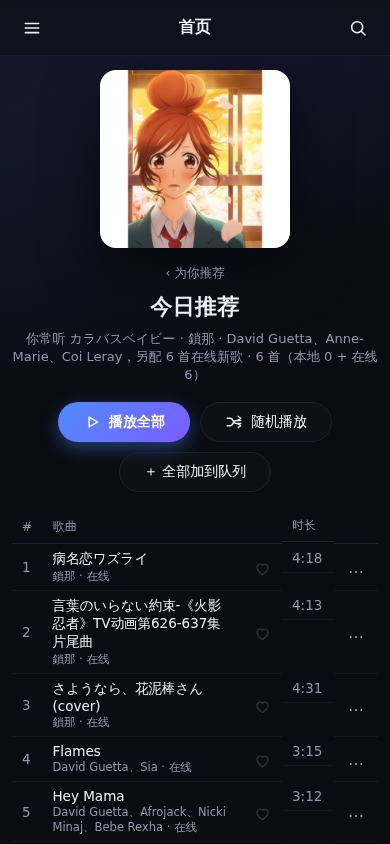
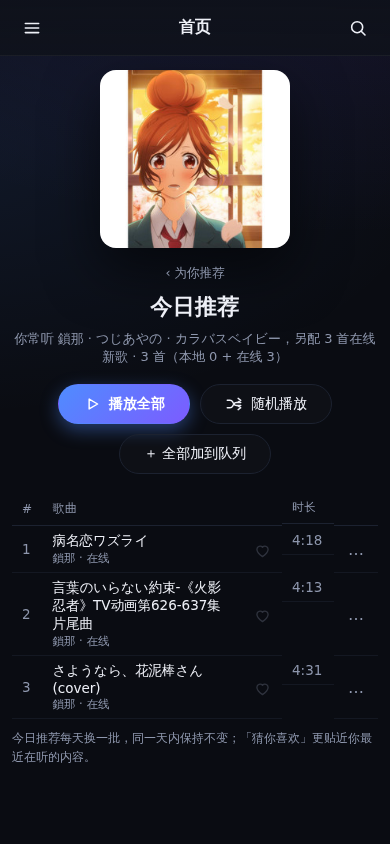
style(share): 分享页图标改内联 SVG（不再靠 emoji 字体）+ 手机端布局断言
- server/src/share/page.ts、ui/share/share.js：播放/暂停/上下曲/随机/下载/音量/更多/音符占位
  全部换成与主 App 同一套 path 的内联 SVG。原先用 ▶⏮⏭🔀🔊 等 emoji 字形，在缺 emoji 字体的
  系统（部分 Linux/NAS 浏览器）会渲染成豆腐块，而分享页正是给「没有账号的访客」看的门面
- ui/share/share.css：SVG 尺寸写死（.s-btn/.s-ic/.s-np-art），占位音符补 19px
  （内联 SVG 不写尺寸会撑满 40px 封面格并被裁角）
- tools/e2e-share.py：新增手机端（390×844）分享页断言——无横向溢出、按钮都在视口内、播放条可见；
  撤销断言改轮询（撤销是请求回来才重渲染，固定等 1500ms 会偶发假失败，审计日志已证请求本身成功）
- 结果：tools/e2e-share.py 89 通过 / 0 失败（接口 + 真实 Chromium），新增 tools/shot-share-mobile.png

diff --git a/server/src/share/page.ts b/server/src/share/page.ts
@@ -8,6 +8,20 @@ export const esc = (s: unknown): string => String(s ?? '')
   .replace(/&/g, '&amp;').replace(/</g, '&lt;').replace(/>/g, '&gt;')
   .replace(/"/g, '&quot;').replace(/'/g, '&#39;')
 
+// 图标统一用内联 SVG（与主 App 同一套 path）：emoji 字形在缺 emoji 字体的系统上会渲染成豆腐块，
+// 分享页是「没有账号的人看到的门面」，不能靠访问者的系统字体赌运气
+const ICON: Record<string, string> = {
+  play: '<svg viewBox="0 0 24 24" fill="currentColor" stroke="none"><path d="M8.2 5.4v13.2L19.5 12Z"/></svg>',
+  pause: '<svg viewBox="0 0 24 24" fill="currentColor" stroke="none"><path d="M7 5h3.8v14H7Z"/><path d="M13.2 5H17v14h-3.8Z"/></svg>',
+  prev: '<svg viewBox="0 0 24 24" fill="currentColor" stroke="none"><path d="M7 5h2.6v14H7Z"/><path d="M19 5v14L9.6 12Z"/></svg>',
+  next: '<svg viewBox="0 0 24 24" fill="currentColor" stroke="none"><path d="M14.4 5H17v14h-2.6Z"/><path d="M5 5v14L14.4 12Z"/></svg>',
+  shuffle: '<svg viewBox="0 0 24 24" fill="none" stroke="currentColor" stroke-width="1.7" stroke-linecap="round" stroke-linejoin="round"><path d="M3 7h3.6c1.5 0 2.9.8 3.6 2.1l1.5 2.7c.7 1.3 2.1 2.1 3.6 2.1H21"/><path d="M17.5 4.5 21 7l-3.5 2.5"/><path d="M3 17h3.6c1.5 0 2.9-.8 3.6-2.1l1.5-2.7c.7-1.3 2.1-2.1 3.6-2.1H21"/><path d="M17.5 14.5 21 17l-3.5 2.5"/></svg>',
+  dl: '<svg viewBox="0 0 24 24" fill="none" stroke="currentColor" stroke-width="1.7" stroke-linecap="round" stroke-linejoin="round"><path d="M12 3.5v10"/><path d="m7.5 10 4.5 4 4.5-4"/><path d="M4.5 16.5v2.8c0 .6.5 1.2 1.2 1.2h12.6c.7 0 1.2-.6 1.2-1.2v-2.8"/></svg>',
+  vol: '<svg viewBox="0 0 24 24" fill="none" stroke="currentColor" stroke-width="1.7" stroke-linecap="round" stroke-linejoin="round"><path d="M4 9.5h3.4L12 5.6v12.8L7.4 14.5H4Z"/><path d="M15.6 9.2a4 4 0 0 1 0 5.6"/><path d="M18.2 6.8a7.6 7.6 0 0 1 0 10.4"/></svg>',
+  more: '<svg viewBox="0 0 24 24" fill="currentColor" stroke="none"><circle cx="5.5" cy="12" r="1.7"/><circle cx="12" cy="12" r="1.7"/><circle cx="18.5" cy="12" r="1.7"/></svg>',
+  note: '<svg viewBox="0 0 24 24" fill="currentColor" stroke="none"><path d="M9 18.5V5.5L21 3.2v13"/><circle cx="6.5" cy="18.5" r="2.8"/><circle cx="18.5" cy="16.2" r="2.8"/></svg>',
+}
+
 const BASE_CSS = `<link rel="stylesheet" href="/s/assets/share.css">`
 
 export interface SharePageInfo {
@@ -69,9 +83,9 @@ ${BASE_CSS}
 
   <main class="s-main">
     <div class="s-toolbar">
-      <button id="s-playall" class="s-btn primary" type="button">▶ 播放全部</button>
-      <button id="s-shuffle" class="s-btn" type="button">🔀 随机播放</button>
-      <button id="s-more" class="s-btn ghost" type="button">⋯</button>
+      <button id="s-playall" class="s-btn primary" type="button">${ICON.play}<span>播放全部</span></button>
+      <button id="s-shuffle" class="s-btn" type="button">${ICON.shuffle}<span>随机播放</span></button>
+      <button id="s-more" class="s-btn ghost" type="button" aria-label="更多">${ICON.more}</button>
     </div>
     <ol id="s-list" class="s-list"><li class="s-loading">正在载入曲目…</li></ol>
   </main>
@@ -90,13 +104,13 @@ ${BASE_CSS}
 
   <div id="s-bar" class="s-bar" hidden>
     <div class="s-np">
-      <div class="s-np-art" id="s-np-art">♪</div>
+      <div class="s-np-art" id="s-np-art">${ICON.note}</div>
       <div class="s-np-txt"><div class="s-np-name" id="s-np-name">未播放</div><div class="s-np-sub" id="s-np-sub"></div></div>
     </div>
     <div class="s-ctrls">
-      <button id="s-prev" class="s-ic" type="button" aria-label="上一首">⏮</button>
-      <button id="s-toggle" class="s-ic big" type="button" aria-label="播放/暂停">▶</button>
-      <button id="s-next" class="s-ic" type="button" aria-label="下一首">⏭</button>
+      <button id="s-prev" class="s-ic" type="button" aria-label="上一首">${ICON.prev}</button>
+      <button id="s-toggle" class="s-ic big" type="button" aria-label="播放/暂停">${ICON.play}</button>
+      <button id="s-next" class="s-ic" type="button" aria-label="下一首">${ICON.next}</button>
     </div>
     <div class="s-prog">
       <span id="s-cur">0:00</span>
@@ -104,7 +118,7 @@ ${BASE_CSS}
       <span id="s-dur">0:00</span>
     </div>
     <div class="s-vol">
-      <button id="s-mute" class="s-ic" type="button" aria-label="音量">🔊</button>
+      <button id="s-mute" class="s-ic" type="button" aria-label="音量">${ICON.vol}</button>
       <input id="s-vol" type="range" min="0" max="100" value="80" aria-label="音量">
     </div>
   </div>

diff --git a/ui/share/share.js b/ui/share/share.js
@@ -5,6 +5,14 @@
   var root = document.getElementById('s-root');
   if (!root) return;
   var CODE = root.dataset.code || '';
+  // 图标：内联 SVG（同 page.ts / 主 App 的 path）。emoji 字形在缺 emoji 字体的系统上是豆腐块，
+  // 分享页面向没有账号的访客，不能赌对方的系统字体
+  var I = {
+    play: '<svg viewBox="0 0 24 24" fill="currentColor" stroke="none"><path d="M8.2 5.4v13.2L19.5 12Z"/></svg>',
+    pause: '<svg viewBox="0 0 24 24" fill="currentColor" stroke="none"><path d="M7 5h3.8v14H7Z"/><path d="M13.2 5H17v14h-3.8Z"/></svg>',
+    dl: '<svg viewBox="0 0 24 24" fill="none" stroke="currentColor" stroke-width="1.7" stroke-linecap="round" stroke-linejoin="round"><path d="M12 3.5v10"/><path d="m7.5 10 4.5 4 4.5-4"/><path d="M4.5 16.5v2.8c0 .6.5 1.2 1.2 1.2h12.6c.7 0 1.2-.6 1.2-1.2v-2.8"/></svg>',
+    note: '<svg viewBox="0 0 24 24" fill="currentColor" stroke="none"><path d="M9 18.5V5.5L21 3.2v13"/><circle cx="6.5" cy="18.5" r="2.8"/><circle cx="18.5" cy="16.2" r="2.8"/></svg>',
+  }
   var API = '/s/' + CODE;
   var state = { items: [], allowDownload: false, order: [], pos: -1, title: '', subtitle: '' };
   var audio = new Audio();
@@ -109,10 +117,10 @@
         img.loading = 'lazy';
         img.alt = '';
         img.src = API + '/cover/' + i;
-        img.addEventListener('error', function () { cov.textContent = '♪'; cov.classList.add('ph'); });
+        img.addEventListener('error', function () { cov.innerHTML = I.note; cov.classList.add('ph'); });
         cov.appendChild(img);
       } else {
-        cov.textContent = '♪';
+        cov.innerHTML = I.note;
         cov.classList.add('ph');
       }
       li.appendChild(cov);
@@ -126,14 +134,15 @@
       li.appendChild(el('span', 's-du', it.interval || ''));
       var acts = el('div', 's-acts');
       if (it.playable) {
-        var bp = el('button', 's-ic sm', '▶');
+        var bp = el('button', 's-ic sm');
+        bp.innerHTML = I.play;
         bp.title = '播放这首';
         bp.addEventListener('click', function () { playAt(i, true); });
         acts.appendChild(bp);
         if (state.allowDownload) {
           var a = document.createElement('a');
           a.className = 's-ic sm';
-          a.textContent = '⬇';
+          a.innerHTML = I.dl;
           a.title = '下载这首';
           a.href = API + '/download/' + i;
           acts.appendChild(a);
@@ -157,7 +166,7 @@
       var ai = document.createElement('img');
       ai.alt = '';
       ai.src = API + '/cover/' + first;
-      ai.addEventListener('error', function () { art.textContent = '♪'; });
+      ai.addEventListener('error', function () { art.innerHTML = I.note; });
       art.innerHTML = '';
       art.appendChild(ai);
     }
@@ -184,7 +193,7 @@
   }
 
   function setPlaying(on) {
-    $('s-toggle').textContent = on ? '⏸' : '▶';
+    $('s-toggle').innerHTML = on ? I.pause : I.play;
   }
 
   function updateNow() {
@@ -198,7 +207,7 @@
     var img = document.createElement('img');
     img.alt = '';
     img.src = API + '/cover/' + state.pos;
-    img.addEventListener('error', function () { art.textContent = '♪'; });
+    img.addEventListener('error', function () { art.innerHTML = I.note; });
     art.appendChild(img);
     if ('mediaSession' in navigator && window.MediaMetadata) {
       try {
@@ -343,11 +352,11 @@
   });
   $('s-shuffle').addEventListener('click', shuffle);
   $('s-more').addEventListener('click', function () {
-    var items = [['💬 显示/隐藏歌词', toggleLyric]];
+    var items = [['显示/隐藏歌词', toggleLyric]];
     if (state.pos >= 0 && state.allowDownload) {
-      items.push(['⬇ 下载当前歌曲', function () { window.location.href = API + '/download/' + state.pos; }]);
+      items.push(['下载当前歌曲', function () { window.location.href = API + '/download/' + state.pos; }]);
     }
-    items.push(['🔗 复制本页链接', function () {
+    items.push(['复制本页链接', function () {
       var url = location.href;
       if (navigator.clipboard) navigator.clipboard.writeText(url).then(function () { toast('链接已复制'); }, function () { toast(url); });
       else toast(url);

diff --git a/ui/share/share.css b/ui/share/share.css
@@ -44,7 +44,14 @@ body {
 .s-btn {
   background: var(--bg2); color: var(--fg); border: 1px solid var(--line);
   border-radius: 10px; padding: 9px 16px; font-size: 14px; cursor: pointer;
+  display: inline-flex; align-items: center; gap: 7px; line-height: 1;
 }
+/* 图标统一 SVG，尺寸写死避免依赖字体度量 */
+.s-btn svg { width: 16px; height: 16px; flex: none; }
+.s-ic svg { width: 17px; height: 17px; display: block; }
+.s-ic.sm svg { width: 15px; height: 15px; }
+.s-ic.big svg { width: 21px; height: 21px; }
+.s-np-art svg, .s-hero-art svg { width: 22px; height: 22px; }
 .s-btn:hover { border-color: #3a4256; }
 .s-btn.primary { background: linear-gradient(135deg, var(--acc), var(--acc2)); border-color: transparent; color: #fff; font-weight: 600; }
 .s-btn.ghost { padding: 9px 12px; }
@@ -61,6 +68,8 @@ body {
 .s-no { color: var(--dim); font-size: 13px; text-align: right; }
 .s-cov { width: 40px; height: 40px; border-radius: 8px; overflow: hidden; background: #202432; display: flex; align-items: center; justify-content: center; color: #5c6478; }
 .s-cov img { width: 100%; height: 100%; object-fit: cover; }
+/* 占位音符：内联 SVG 不写死尺寸会撑满 40px 格子并被裁掉一角 */
+.s-cov svg { width: 19px; height: 19px; }
 .s-txt { min-width: 0; }
 .s-nm { white-space: nowrap; overflow: hidden; text-overflow: ellipsis; }
 .s-sb { color: var(--dim); font-size: 12.5px; white-space: nowrap; overflow: hidden; text-overflow: ellipsis; }

diff --git a/tools/e2e-share.py b/tools/e2e-share.py
@@ -412,6 +412,20 @@ def run_ui_cases():
         check('播放条显示当前曲目', '可爱女人' in pub.inner_text('#s-np-name'))
         pub.screenshot(path=os.path.join(ROOT, 'tools', 'shot-share-page.png'))
         pub.close()
+        # 手机端（分享链接大多在手机上打开）：390×844 不能横向溢出，播放条要点得到
+        mob = b.new_context(viewport={'width': 390, 'height': 844}).new_page()
+        mob.goto(BASE + '/s/' + ui_code)
+        mob.wait_for_selector('.s-item', timeout=15000)
+        mob.wait_for_timeout(500)
+        ov = mob.evaluate("() => ({sw: document.documentElement.scrollWidth, cw: document.documentElement.clientWidth})")
+        check('手机端分享页无横向溢出', ov['sw'] <= ov['cw'] + 1, '%d > %d' % (ov['sw'], ov['cw']))
+        fit = mob.evaluate("() => [...document.querySelectorAll('.s-btn, .s-acts .s-ic')].every(e => { const r = e.getBoundingClientRect(); return r.left >= -1 && r.right <= innerWidth + 1; })")
+        check('手机端按钮都在视口内', fit)
+        mob.click('#s-playall')
+        mob.wait_for_timeout(1200)
+        check('手机端播放条出现且不遮住列表', mob.is_visible('#s-bar'))
+        mob.screenshot(path=os.path.join(ROOT, 'tools', 'shot-share-mobile.png'))
+        mob.close()
         # 设置页「我的分享」
         pg.goto(BASE + '/#/settings')
         pg.wait_for_selector('.share-item', timeout=15000)
@@ -422,8 +436,13 @@ def run_ui_cases():
         # 撤销走应用内确认弹窗 confirm2（#dialog / #dlg-ok），不是浏览器原生 confirm
         pg.wait_for_selector('#dialog:not([hidden])', timeout=8000)
         pg.click('#dlg-ok')
-        pg.wait_for_timeout(1500)
-        n2 = pg.eval_on_selector_all('.share-item', 'els => els.length')
+        # 撤销是异步的（请求回来才重渲染），固定等待会偶发假失败 → 轮询到列表变短为止
+        n2 = n
+        for _i in range(20):
+            pg.wait_for_timeout(300)
+            n2 = pg.eval_on_selector_all('.share-item', 'els => els.length')
+            if n2 < n:
+                break
         check('设置页撤销后列表减少', n2 == n - 1, '%d → %d' % (n, n2))
         # 专辑页：分享入口 + 弹窗
         pg.goto(BASE + '/#/albums')
